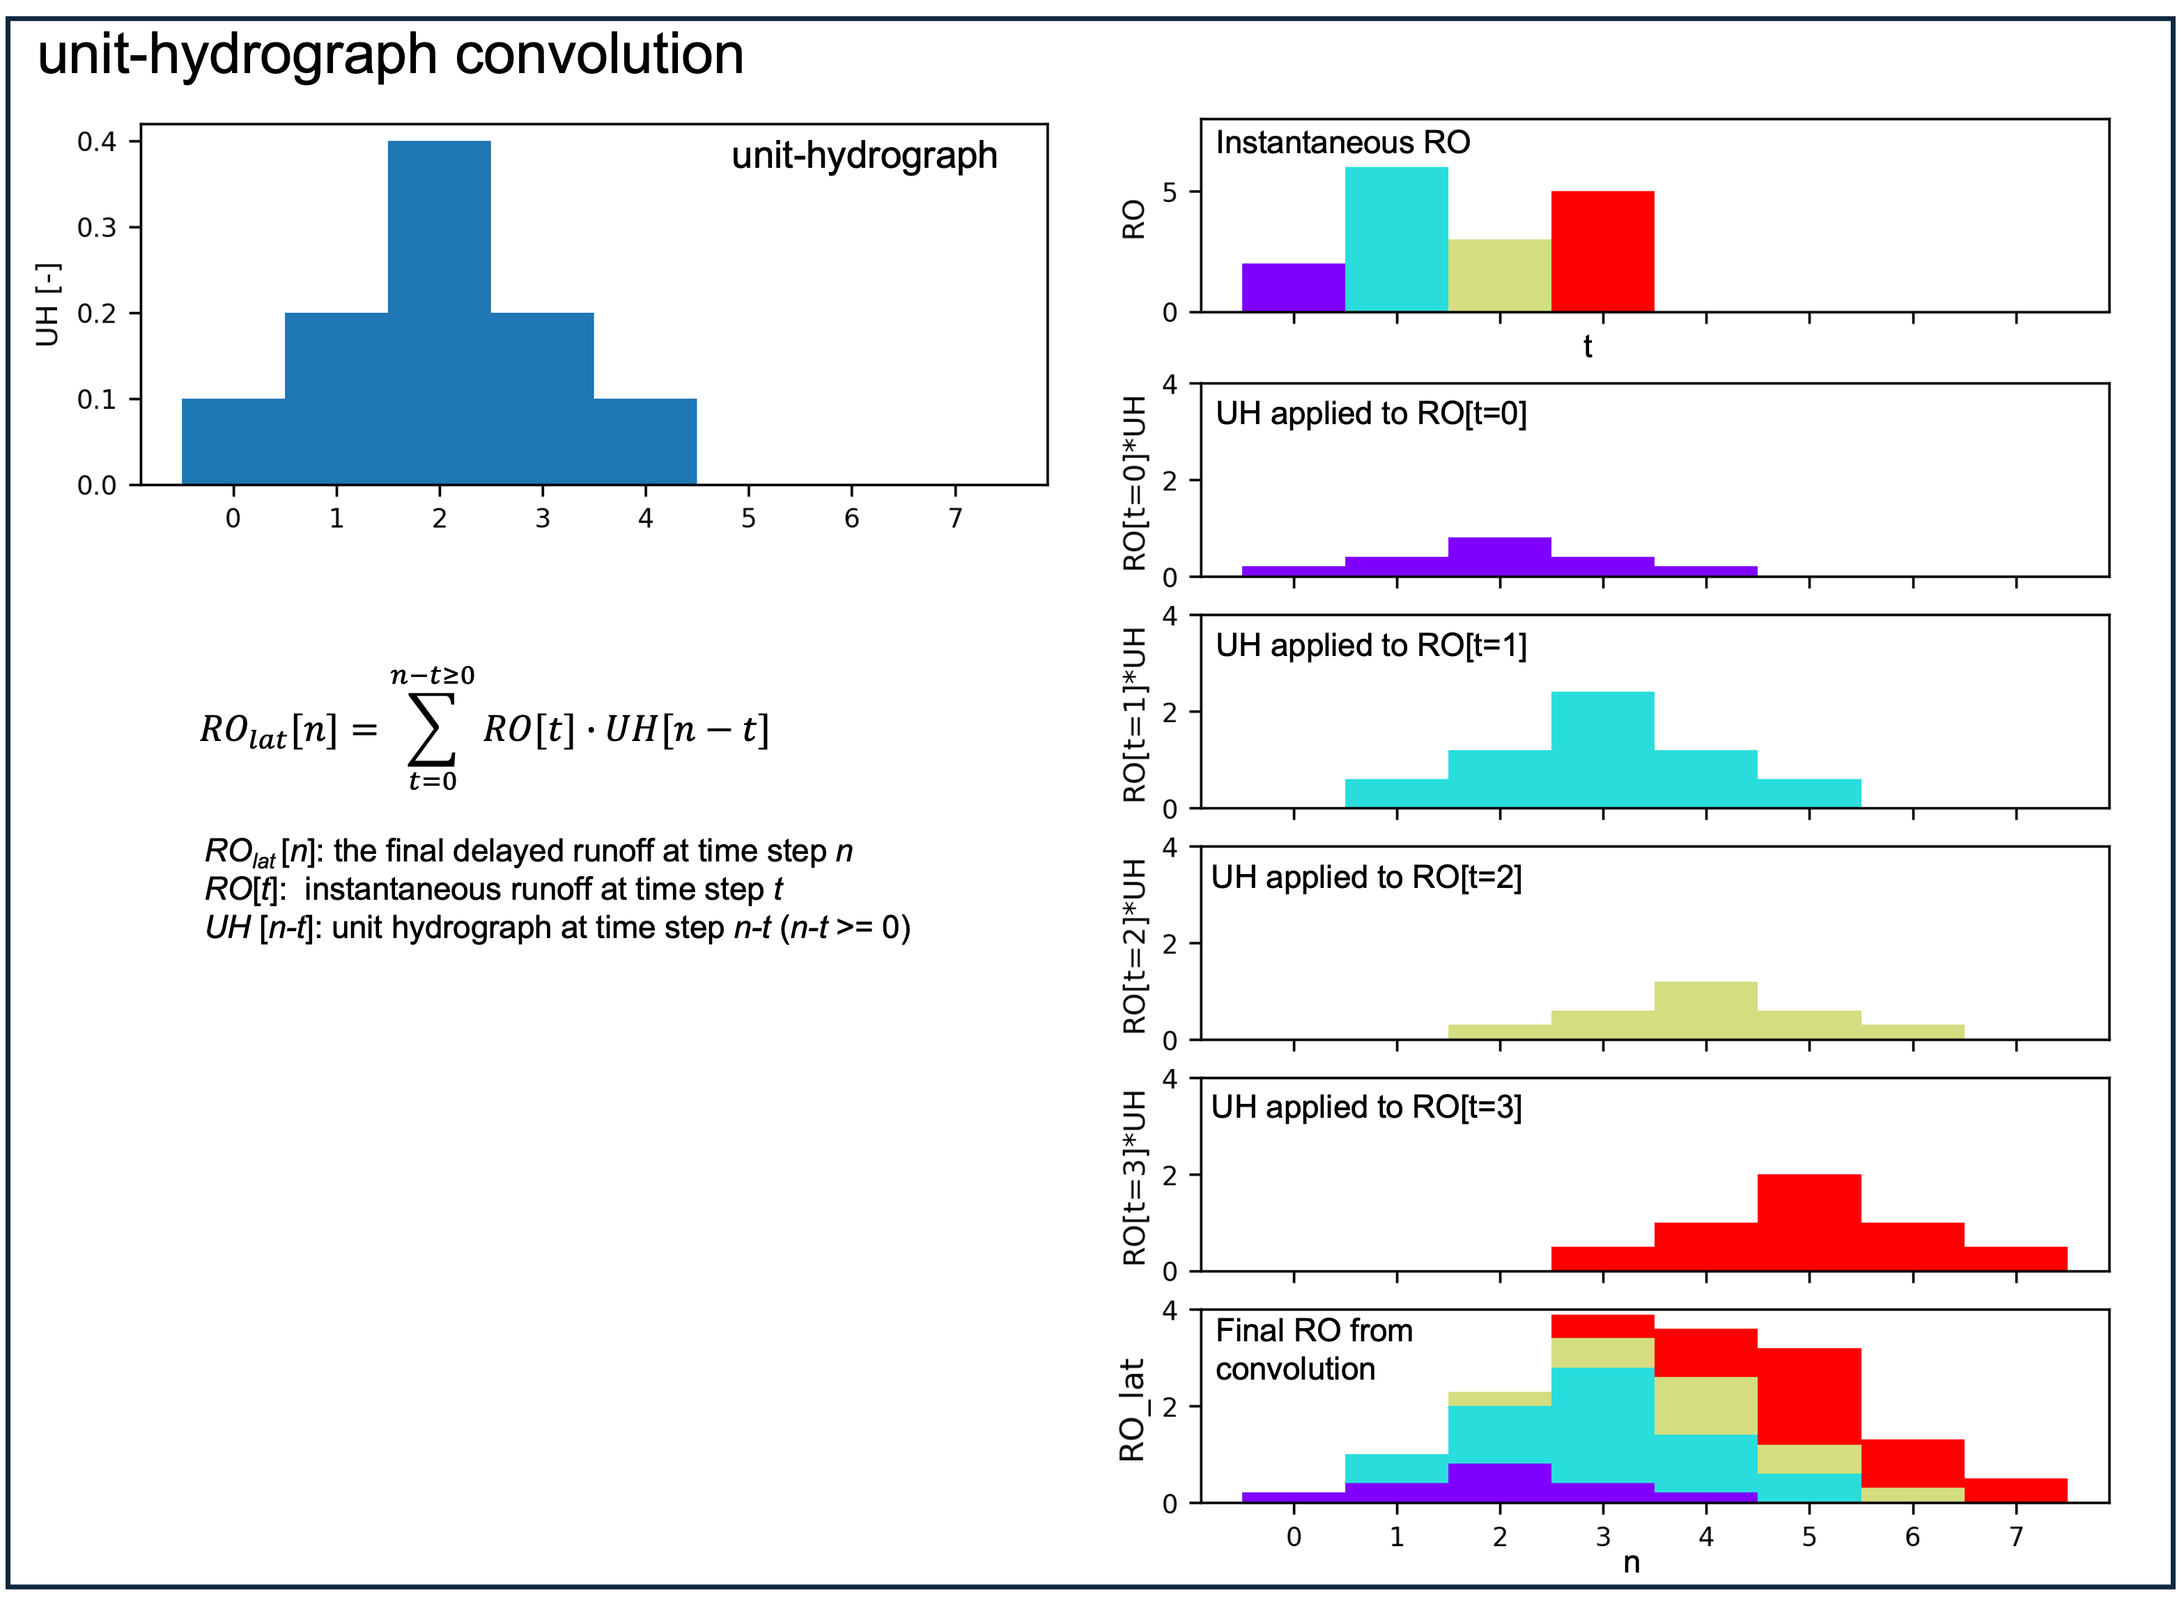
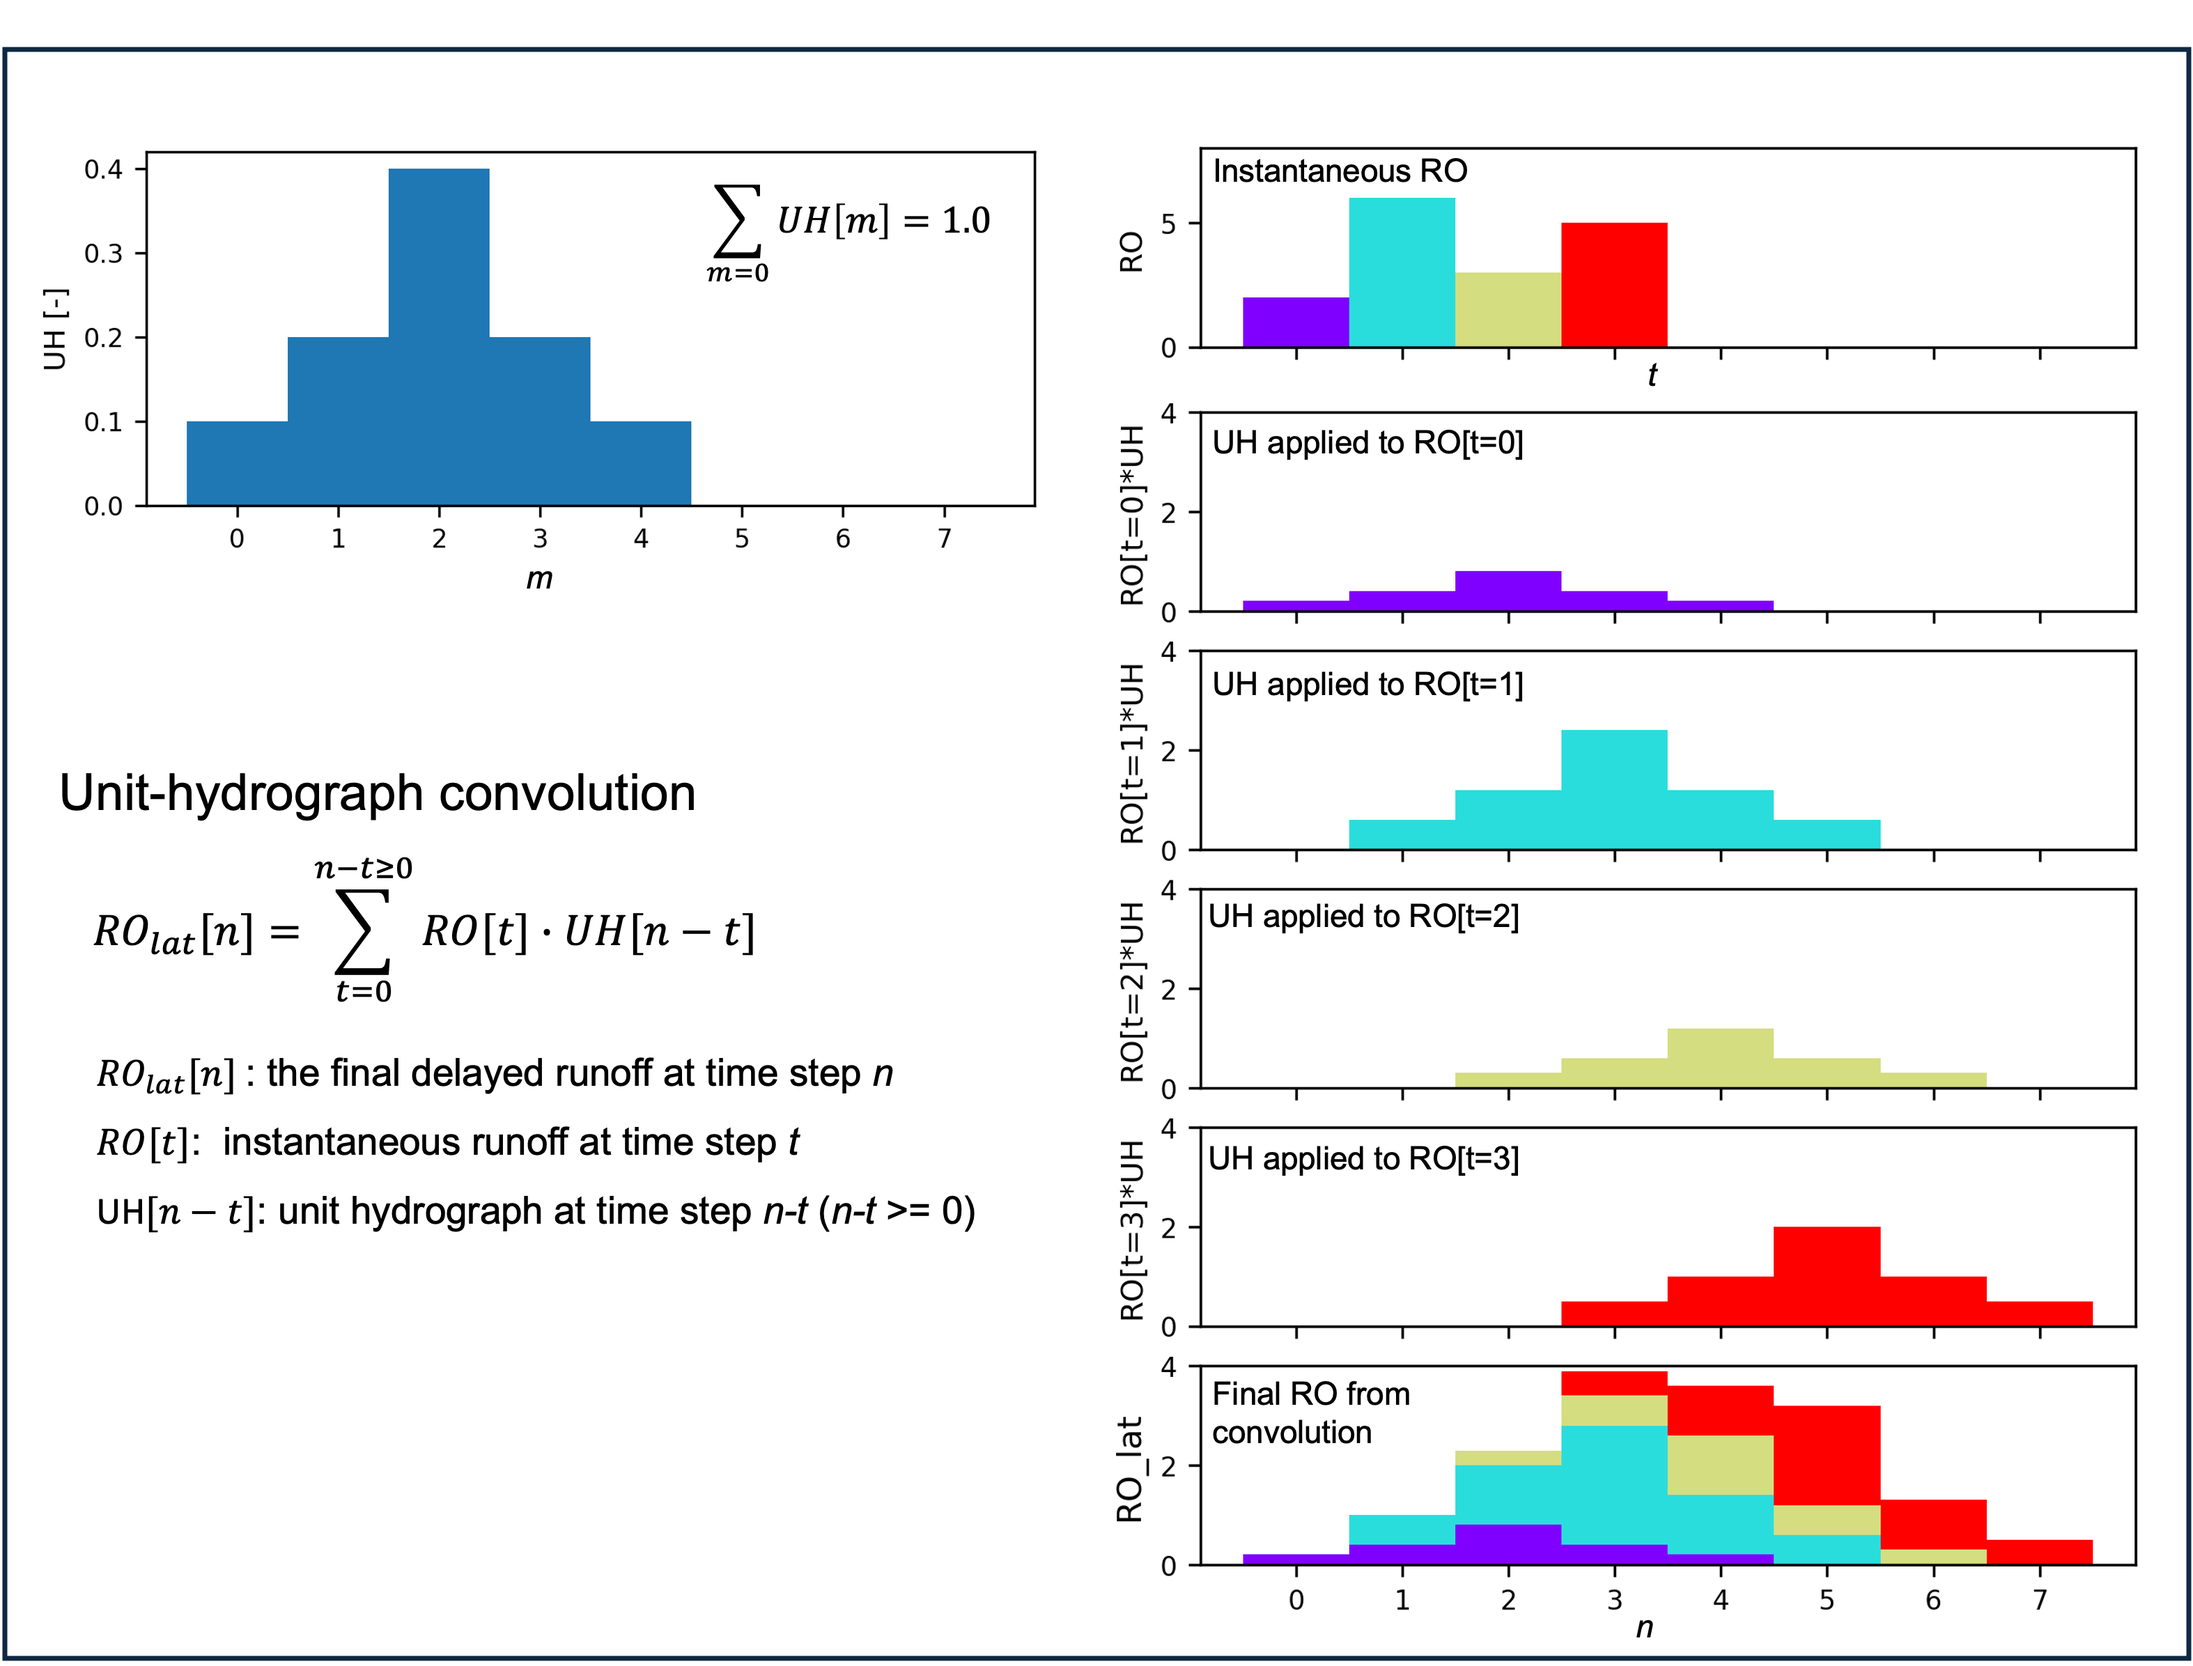
update IRF routing and minor change in uh convolution images

diff --git a/docs/source/tech_note/reach_routing.rst b/docs/source/tech_note/reach_routing.rst
@@ -42,7 +42,7 @@ To get actual delayed lateral flow series to the river reach, unit-hydrograph co
 
 .. figure:: images/uh_convolution.png
  :width: 700
- :height: 400
+ :height: 500
 
  Illustration of discrete Unit hydrograph convolution.
 
@@ -142,14 +142,36 @@ The numerical implementations of Euler kinematic wave and Diffusive wave are ess
 Impulse response function
 --------------------------
 
+The impulse response function (IRF) is derived from 1-D diffusive wave equation (Eq. :eq:`0.5`). Eq. :eq:`0.5` can be solved using convolution integrals:
 
+.. math::
+   :label: 0.8
+
+   Q(x,t) = \int_{0}^t Q_{in}(t-s)h(x,s)ds
+
+where :math: `Q_in` is a pulse or here input runoff volume in the river, and :math:`h(x,s)` is the green function or *impulse response function*, and *x* is the distance from the source of pulse (here, lateral flow point) to the reach location of interest (here, HRU outlet).
+
+.. math::
+   :label: 0.9
+
+   h(x,t) = \frac{x}{2t \sqrt{\pi t D}} \exp(-\frac{(Ct-x)^2}{4Dt})
+
+where *C* (Eq. :eq:`0.6`) is a wave celerity [m/s] and *D* (Eq. :eq:`0.7`) is a diffusivity [m\ :sup:`2`\/s].
+
+This is the same concept as river routing described in Lohmann et al., (1996). Also, please see section 3.2.2 in Mizukami et al. 2016.
+
+Lohmann et al., (1996) and original mizuRoute (version 1) use the *source-to-sink* approach where unique IRFs are developed for a target outlet (sink) to its all upstream HRUs (sources), the IRFs are applied with lateral flows from the corresponding HRUs,
+then routed flow from all the source HRUs are summed up to the river discharge at the target HRU outlet. This process is repeated for all the HRUs.
+
+One modification made from Lohmann et al., 1996 and mizuRoute version 1 was to develop reach-specific IRF based on reach length, *C* and *D*, then apply it with inflow from the upstream reach to move water through indiviual river reaches from the upstream to downstream.
+This way is consistent with the other routing methods used in mizuRoute, and also reduces memory usage (source-to-sink approach requires storing IRFs of all the upstream HRUs for all the HRUs).
 
 .. _Lagrangian_kinematic_wave:
 
 Lagrangian kinmatic wave
 --------------------------
 
-
+Also, please see section 3.2.1 in Mizukami et al. 2016
 
 .. _Euler_kinematic_wave:
 
